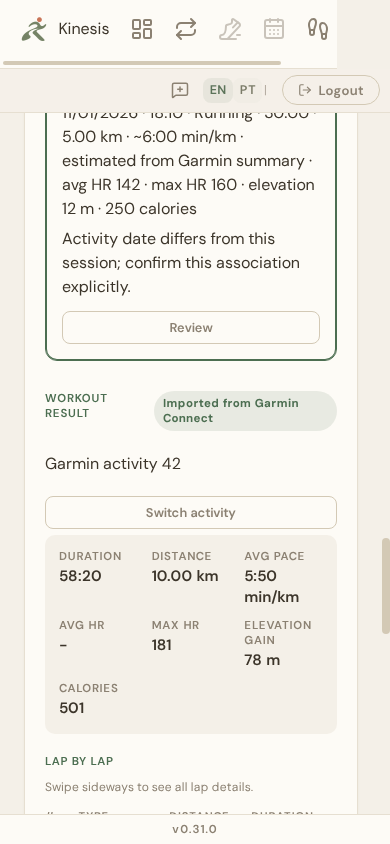
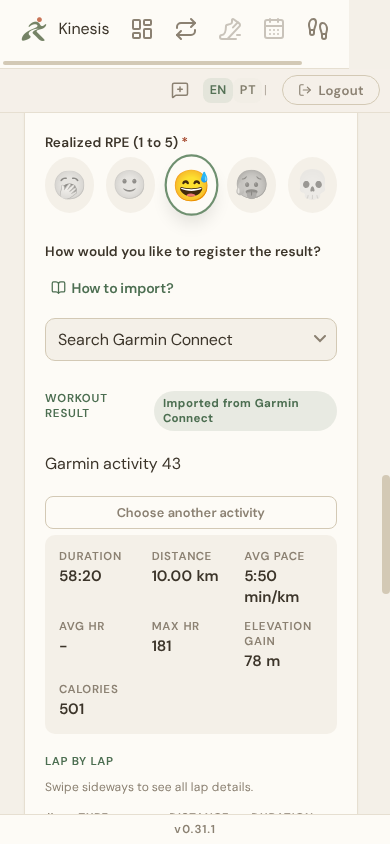
fix(garmin): show one activity replacement action

diff --git a/test/garminActivityImport.browser.test.js b/test/garminActivityImport.browser.test.js
@@ -225,10 +225,21 @@ test('Garmin activity result flow in Chrome stays explicit, localized, keyboard 
     await waitFor("document.querySelector('.confirm-card') !== null", 'replacement confirmation after recoverable failure');
     await evaluate("document.getElementById('confirmOkBtn').click(); true");
     await waitFor("document.getElementById('garminActivityLink').textContent.includes('42')", 'confirmed result link');
-    assert.equal(await evaluate("!document.getElementById('garminActivitySwitch').hidden && document.getElementById('garminActivitySwitch').textContent==='Trocar atividade'"), true,
-      'an imported activity has a direct replacement action');
+    assert.deepEqual(await evaluate("(()=>({switchVisible:!document.getElementById('garminActivitySwitch').hidden,label:document.getElementById('garminActivitySwitch').textContent,fieldHidden:document.getElementById('garminActivityField').hidden,guidanceHidden:document.getElementById('garminActivityGuidance').hidden,initialHidden:document.getElementById('garminActivitySearch').hidden}))()"),
+      { switchVisible: true, label: 'Escolher outra atividade', fieldHidden: true, guidanceHidden: true, initialHidden: true },
+      'the canonical imported result shows one replacement entry point without reserving the search panel');
+    assert.equal(await evaluate("getComputedStyle(document.getElementById('garminActivityField')).display"), 'none',
+      'the hidden initial search panel leaves no blank space after import');
+    await evaluate("document.getElementById('garminActivitySwitch').scrollIntoView({block:'center'});true"); await delay(120); await screenshot('pt-imported-desktop.png');
     await evaluate("document.getElementById('garminActivitySwitch').click(); true");
     await waitFor("document.getElementById('garminActivityCandidates').hidden===false", 'switch action opens the existing candidate list');
+    assert.equal(await evaluate("document.getElementById('garminActivitySwitch').textContent"), 'Voltar ao resultado atual');
+    await evaluate("document.getElementById('garminActivitySwitch').click(); true");
+    await waitFor("document.getElementById('garminActivityField').hidden", 'chooser can be cancelled without changing the imported result');
+    assert.equal(await evaluate("document.getElementById('garminActivityLink').textContent.includes('42')"), true);
+    assert.equal(await evaluate("document.getElementById('garminActivitySwitch').textContent"), 'Escolher outra atividade');
+    await evaluate("document.getElementById('garminActivitySwitch').click(); true");
+    await waitFor("document.getElementById('garminActivityCandidates').hidden===false", 'chooser reopens from the current result');
     await evaluate("document.querySelector('[data-activity-id=\"43\"]').click(); true");
     await waitFor("document.getElementById('garminActivityPreview').hidden===false", 'another activity can be reviewed for replacement');
     assert.equal(await evaluate("document.getElementById('garminActivityReplaceNotice').hidden"), false, 'review explains the replacement before confirmation');
@@ -237,6 +248,40 @@ test('Garmin activity result flow in Chrome stays explicit, localized, keyboard 
     await waitFor("document.getElementById('garminActivityPreview').hidden && document.activeElement.dataset.activityId==='43'", 'cancel returns focus to the alternative activity');
     assert.equal(await evaluate("document.getElementById('garminActivityLink').textContent.includes('42')"), true,
       'reviewing and returning leaves the persisted activity untouched');
+    await evaluate("document.getElementById('garminActivitySwitch').click(); true");
+    await waitFor("document.getElementById('garminActivityField').hidden", 'return action closes candidate list without discarding the saved result');
+    await evaluate("document.getElementById('garminActivitySwitch').click(); true");
+    await waitFor("document.getElementById('garminActivityCandidates').hidden===false", 'chooser opens again for explicit replacement');
+    await evaluate("document.querySelector('[data-activity-id=\"43\"]').click(); true");
+    await waitFor("document.getElementById('garminActivityPreview').hidden===false", 'replacement activity review');
+    await evaluate("document.getElementById('garminActivityConfirm').click(); true");
+    await waitFor("document.querySelector('.confirm-card') !== null", 'explicit replacement confirmation');
+    await evaluate("document.getElementById('confirmOkBtn').click(); true");
+    await waitFor("document.getElementById('garminActivityLink').textContent.includes('43') && document.getElementById('garminActivityField').hidden", 'confirmed replacement returns to imported-result state');
+    assert.deepEqual(await evaluate("(()=>({switchVisible:!document.getElementById('garminActivitySwitch').hidden,label:document.getElementById('garminActivitySwitch').textContent,searchHidden:document.getElementById('garminActivitySearch').hidden,guideHidden:document.getElementById('garminActivityGuidance').hidden}))()"),
+      { switchVisible: true, label: 'Escolher outra atividade', searchHidden: true, guideHidden: true });
+    await evaluate("document.getElementById('garminActivitySwitch').scrollIntoView({block:'center'});true"); await delay(120); await screenshot('pt-imported-replaced-desktop.png');
+    await command('Emulation.setDeviceMetricsOverride', { width: 390, height: 844, deviceScaleFactor: 1, mobile: true });
+    await evaluate("document.getElementById('garminActivitySwitch').scrollIntoView({block:'center'});true"); await delay(120); await screenshot('pt-imported-replaced-mobile.png');
+    await command('Emulation.setDeviceMetricsOverride', { width: 1280, height: 900, deviceScaleFactor: 1, mobile: false });
+    const savedBeforeConflict = db.prepare('SELECT fit_distance,result_data_source FROM trainings WHERE id=1').get();
+    await evaluate("document.getElementById('garminActivitySwitch').click(); true");
+    await waitFor("document.getElementById('garminActivityCandidates').hidden===false", 'replacement list before recoverable conflict');
+    await evaluate("document.querySelector('[data-activity-id=\"42\"]').click(); true");
+    await waitFor("document.getElementById('garminActivityPreview').hidden===false", 'replacement preview before connection conflict');
+    db.prepare('UPDATE garmin_pilot_connections SET connection_generation=connection_generation+1 WHERE user_id=1').run();
+    await evaluate("document.getElementById('garminActivityConfirm').click(); true");
+    await waitFor("document.querySelector('.confirm-card') !== null", 'explicit confirmation before recoverable conflict');
+    await evaluate("document.getElementById('confirmOkBtn').click(); true");
+    await waitFor("document.getElementById('garminActivityStatus').textContent.includes('conexão Garmin mudou')", 'localized replacement conflict');
+    assert.deepEqual(db.prepare('SELECT fit_distance,result_data_source FROM trainings WHERE id=1').get(), savedBeforeConflict,
+      'a stale connection conflict preserves the confirmed result');
+    assert.deepEqual(db.prepare('SELECT activity_id,is_current FROM garmin_activity_imports ORDER BY activity_id').all(), [
+      { activity_id: '42', is_current: 0 }, { activity_id: '43', is_current: 1 },
+    ], 'failed replacement leaves the current link and history intact');
+    assert.equal(await evaluate("document.getElementById('garminActivityLink').textContent.includes('43')"), true);
+    await evaluate("document.getElementById('garminActivitySwitch').click(); true");
+    await waitFor("document.getElementById('garminActivityField').hidden", 'conflict flow returns to current result');
     assert.equal(await evaluate("document.getElementById('feedbackRpeError').hidden"), true);
     assert.equal(await evaluate("document.getElementById('feedbackNotas').value"), 'draft survives Garmin sign-in and import');
     assert.equal(await evaluate("document.querySelector('[name=\"rpe\"][value=\"3\"]').checked"), true);
@@ -251,7 +296,7 @@ test('Garmin activity result flow in Chrome stays explicit, localized, keyboard 
     assert.equal(await evaluate("JSON.stringify({rpe:document.getElementById('plannedRpe').textContent,hr:document.getElementById('plannedFcAlvo').textContent,details:document.getElementById('plannedDetalhes').textContent})"),
       plannedBeforeLanguage, 'planned prescription survives canonical result merge and language change');
     assert.equal(await evaluate("document.getElementById('feedbackNotas').value"), 'draft survives Garmin sign-in and import');
-    assert.equal(await evaluate("document.getElementById('garminActivityLink').textContent.includes('42')"), true);
+    assert.equal(await evaluate("document.getElementById('garminActivityLink').textContent.includes('43')"), true);
     assert.equal(await evaluate("document.getElementById('fitAvgHr').textContent.trim()"), '-');
     await evaluate("document.querySelector('.lang-switch [data-lang=\"pt-BR\"]').click(); true");
     await waitFor("document.documentElement.lang==='pt-BR'", 'Portuguese language switch without reload');
@@ -280,11 +325,14 @@ test('Garmin activity result flow in Chrome stays explicit, localized, keyboard 
     assert.ok(plannedAfterReload.rpe.includes('3'), `planned RPE survives reload: ${JSON.stringify(plannedAfterReload)}`);
     assert.equal(plannedAfterReload.hr, JSON.parse(plannedInEnglish).hr);
     assert.equal(plannedAfterReload.details, JSON.parse(plannedInEnglish).details);
-    assert.equal(await evaluate("document.getElementById('garminActivityLink').textContent.includes('42')"), true);
+    assert.equal(await evaluate("document.getElementById('garminActivityLink').textContent.includes('43')"), true);
+    assert.deepEqual(await evaluate("(()=>({fieldHidden:document.getElementById('garminActivityField').hidden,guideHidden:document.getElementById('garminActivityGuidance').hidden,searchHidden:document.getElementById('garminActivitySearch').hidden,label:document.getElementById('garminActivitySwitch').textContent,switchVisible:!document.getElementById('garminActivitySwitch').hidden}))()"),
+      { fieldHidden: true, guideHidden: true, searchHidden: true, label: 'Choose another activity', switchVisible: true },
+      'reload derives the single replacement action from the canonical current activity link');
     assert.equal(await evaluate("document.getElementById('fitAvgHr').textContent.trim()"), '-');
     await evaluate("document.getElementById('feedbackAccordionTrigger').click(); true");
     holdFirstActivityPage = true;
-    await evaluate("document.getElementById('garminActivitySearch').click(); true");
+    await evaluate("document.getElementById('garminActivitySwitch').click(); true");
     await waitFor("document.getElementById('garminActivityStatus').textContent==='Searching activities…'", 'English search loading');
     for (let attempt = 0; attempt < 80 && !releaseFirstActivityPage; attempt += 1) await delay(25);
     assert.equal(typeof releaseFirstActivityPage, 'function');
@@ -292,7 +340,7 @@ test('Garmin activity result flow in Chrome stays explicit, localized, keyboard 
     assert.equal(await evaluate("document.getElementById('manualResultsField').hidden"), false, 'switching origin returns to the manual fallback');
     releaseFirstActivityPage(); await delay(100);
     assert.equal(await evaluate("document.getElementById('garminActivityCandidates').children.length"), 0, 'late Garmin results do not repaint after the origin changes');
-    await evaluate("document.getElementById('resultSourceSelect').value='garmin';document.getElementById('resultSourceSelect').dispatchEvent(new Event('change',{bubbles:true}));document.getElementById('garminActivitySearch').click();true");
+    await evaluate("document.getElementById('resultSourceSelect').value='garmin';document.getElementById('resultSourceSelect').dispatchEvent(new Event('change',{bubbles:true}));document.getElementById('garminActivitySwitch').click();true");
     await waitFor("document.getElementById('garminActivityCandidates').children.length===1", 'miles candidate after reload');
     assert.equal(await evaluate("document.getElementById('garminActivityCandidates').textContent.includes('6.21 mi')"), true, 'candidate distance follows the persisted miles preference');
     assert.equal(await evaluate("document.getElementById('garminActivityCandidates').textContent.includes('Running')"), true, 'reloaded English UI localizes the sport');

diff --git a/src/public/training-result.js b/src/public/training-result.js
@@ -944,13 +944,22 @@ async function initTrainingResult() {
   };
   rpeSelector.addEventListener('change', clearFeedbackRpeError);
 
+  let garminActivitySelectionOpen = false;
+  const hasCurrentGarminActivity = () => training?.result_data_source === 'garmin_connect'
+    && training?.garmin_activity?.activity_id != null;
   const syncResultSourceVisibility = () => {
     const manual = resultSourceSelect.value === 'manual';
     const garmin = resultSourceSelect.value === 'garmin';
+    const currentGarminActivity = hasCurrentGarminActivity();
     fitField.hidden = manual;
     fitField.hidden = manual || garmin;
     manualResultsField.hidden = !manual;
-    garminActivityField.hidden = !garmin;
+    garminActivityField.hidden = !garmin || (currentGarminActivity && !garminActivitySelectionOpen);
+    garminActivityGuidance.hidden = currentGarminActivity;
+    garminActivitySearch.hidden = currentGarminActivity || garminActivityHasSearched;
+    garminActivitySwitch.hidden = !currentGarminActivity;
+    garminActivitySwitch.textContent = t(garminActivitySelectionOpen
+      ? 'session.garminImport.backToCurrentResult' : 'session.garminImport.switchActivity');
   };
   const renderManualDistanceUnit = ({ convertExisting = false } = {}) => {
     const nextUnit = getUserPreferences().distance_unit === 'mi' ? 'mi' : 'km';
@@ -965,8 +974,9 @@ async function initTrainingResult() {
     manualDistanceInputUnit = nextUnit;
     manualDistanceUnit.textContent = nextUnit;
   };
-  resultSourceSelect.addEventListener('change', syncResultSourceVisibility);
   resultSourceSelect.addEventListener('change', () => {
+    if (resultSourceSelect.value !== 'garmin') garminActivitySelectionOpen = false;
+    syncResultSourceVisibility();
     if (resultSourceSelect.value === 'garmin') updateGarminActivityWindow();
     else if (garminActivityBusy && !garminActivityConfirm.hasAttribute('aria-busy')) {
       // A late search/download response must not repopulate a hidden source panel.
@@ -1138,6 +1148,7 @@ async function initTrainingResult() {
     } catch (error) {
       if (readId !== garminActivityReadId || currentTrainingId !== requestedTrainingId) return;
       setGarminActivityStatus(activityErrorKey(error));
+      if (hasCurrentGarminActivity() || garminActivityHasSearched) garminActivityRefresh.hidden = false;
       if (['connection_required', 'auth_required'].includes(error?.message)) {
         setAccordionOpen(garminAccordionTrigger, garminAccordionPanel, true);
         requestAnimationFrame(() => {
@@ -1224,8 +1235,8 @@ async function initTrainingResult() {
   garminActivityBack.addEventListener('click', () => {
     if (garminActivityBusy) return;
     garminActivityPreview.hidden = true;
-    garminActivityGuidance.hidden = false;
-    garminActivitySearch.hidden = garminActivityHasSearched;
+    garminActivityGuidance.hidden = hasCurrentGarminActivity();
+    garminActivitySearch.hidden = hasCurrentGarminActivity() || garminActivityHasSearched;
     garminActivityRefresh.hidden = !garminActivityHasSearched;
     garminActivityMore.hidden = !garminActivityCandidatesState.length || !garminActivityHasMore;
     garminActivityCandidates.hidden = garminActivityCandidatesState.length === 0;
@@ -1236,19 +1247,35 @@ async function initTrainingResult() {
   });
   garminActivitySwitch.addEventListener('click', () => {
     if (garminActivityBusy) return;
+    if (hasCurrentGarminActivity() && garminActivitySelectionOpen) {
+      garminActivitySelectionOpen = false;
+      garminActivityPreview.hidden = true;
+      garminActivityPreviewId = null;
+      garminActivityCandidates.hidden = true;
+      garminActivityMore.hidden = true;
+      setGarminActivityStatus('');
+      syncResultSourceVisibility();
+      garminActivitySwitch.focus({ preventScroll: true });
+      return;
+    }
+    garminActivitySelectionOpen = true;
+    setGarminActivityStatus('');
     if (resultSourceSelect.value !== 'garmin') {
       resultSourceSelect.value = 'garmin';
-      syncResultSourceVisibility();
     }
+    syncResultSourceVisibility();
     garminActivityPreview.hidden = true;
-    garminActivityGuidance.hidden = false;
     garminActivityField.scrollIntoView({ block: 'center', behavior: 'smooth' });
     if (garminActivityHasSearched && garminActivityCandidatesState.length) {
       garminActivityCandidates.hidden = false;
+      garminActivitySearch.hidden = true;
+      garminActivityRefresh.hidden = false;
+      garminActivityMore.hidden = !garminActivityHasMore;
       requestAnimationFrame(() => garminActivityCandidates.querySelector(`[data-activity-id="${CSS.escape(String(training?.garmin_activity?.activity_id || ''))}"]`)?.focus()
         || garminActivityRefresh.focus());
     } else {
-      requestAnimationFrame(() => { garminActivitySearch.focus(); void searchGarminActivities(); });
+      void searchGarminActivities();
+      requestAnimationFrame(() => garminActivityStatus.focus({ preventScroll: true }));
     }
   });
   document.addEventListener('app:languagechange', () => {
@@ -1257,6 +1284,8 @@ async function initTrainingResult() {
     if (resultSourceSelect.value === 'garmin') updateGarminActivityWindow();
     if (!garminActivityBusy) {
       garminActivitySearch.textContent = t('session.garminImport.searchInitial');
+      garminActivitySwitch.textContent = t(garminActivitySelectionOpen
+        ? 'session.garminImport.backToCurrentResult' : 'session.garminImport.switchActivity');
       garminActivityRefresh.textContent = t('session.garminImport.refresh');
       garminActivityMore.textContent = t('session.garminImport.more');
       garminActivityBack.textContent = t('session.garminImport.back');
@@ -1298,18 +1327,20 @@ async function initTrainingResult() {
         if (key.startsWith('feedback_')) training[key] = previousTraining[key];
       }
       fitData = { ...result.training, laps: JSON.parse(result.training.fit_summary_json || '{}').laps || [] };
+      garminActivitySelectionOpen = false;
       resultSourceSelect.value = 'garmin';
       garminActivityPreviewId = null;
       garminActivityPreview.hidden = true;
       renderFitData();
       setGarminActivityStatus(result.duplicate ? 'imported' : 'imported');
       refreshFeedbackAccordionSummary();
+      requestAnimationFrame(() => garminActivitySwitch.focus({ preventScroll: true }));
     } catch (error) {
       setGarminActivityStatus(activityErrorKey(error));
       focusGarminActivityError();
       if (['session_changed','connection_changed'].includes(error?.message)) {
         const current = await fetchTraining(requestedTrainingId).catch(() => null);
-        if (current) training = current;
+        if (current) applyCanonicalTraining(current, { preserveFeedbackBaseline: true });
       }
     } finally {
       garminActivityBusy = false;
@@ -1419,6 +1450,7 @@ async function initTrainingResult() {
       resultSourceBadge.textContent = '';
       fitLapsSection.hidden = true;
       fitLapsBody.innerHTML = '';
+      syncResultSourceVisibility();
       return;
     }
     fitDataSection.hidden = false;
@@ -1440,9 +1472,11 @@ async function initTrainingResult() {
     const activityId = training?.garmin_activity?.activity_id;
     activityLink.hidden = source !== 'garmin_connect' || !activityId;
     activityLink.textContent = activityLink.hidden ? '' : t('session.garminActivityLink').replace('{id}', String(activityId));
-    garminActivitySwitch.hidden = activityLink.hidden;
-    garminActivitySwitch.textContent = t('session.garminImport.switchActivity');
+    garminActivitySwitch.hidden = !hasCurrentGarminActivity();
+    garminActivitySwitch.textContent = t(garminActivitySelectionOpen
+      ? 'session.garminImport.backToCurrentResult' : 'session.garminImport.switchActivity');
     renderLapsTable();
+    syncResultSourceVisibility();
   };
 
   let feedbackShoes = [];
@@ -3270,14 +3304,20 @@ async function initTrainingResult() {
     }),
     applyResponse: applyManualResults,
   });
-  const applyCanonicalTraining = (canonical) => {
-    const laps = ['fit_upload', 'garmin_connect'].includes(canonical.result_data_source) ? (fitData?.laps || []) : [];
+  const applyCanonicalTraining = (canonical, { preserveFeedbackBaseline = false } = {}) => {
+    let laps = [];
+    if (['fit_upload', 'garmin_connect'].includes(canonical.result_data_source) && canonical.fit_summary_json) {
+      try {
+        const summary = JSON.parse(canonical.fit_summary_json);
+        if (Array.isArray(summary.laps)) laps = summary.laps;
+      } catch { /* malformed historical summaries stay readable without laps */ }
+    }
     training = canonical;
     fitData = { ...canonical, laps };
     resultSourceSelect.value = canonical.result_data_source === 'manual' ? 'manual'
       : canonical.result_data_source === 'garmin_connect' ? 'garmin' : 'fit';
     renderFitData();
-    feedbackBaselineSignature = feedbackPersistenceSnapshot || feedbackSignature();
+    if (!preserveFeedbackBaseline) feedbackBaselineSignature = feedbackPersistenceSnapshot || feedbackSignature();
     refreshFeedbackAccordionSummary();
   };
   const feedbackPayload = (state) => {

diff --git a/test/trainingResult.test.js b/test/trainingResult.test.js
@@ -1185,7 +1185,7 @@ test('training-result.js wires explicit persisted analysis, protected prompt pre
   assert.match(js, /saveManualTrainingResults/);
   assert.match(js, /convertDistanceToKm/);
 
-  assert.match(js, /resultSourceSelect\.addEventListener\('change', syncResultSourceVisibility\)/);
+  assert.match(js, /resultSourceSelect\.addEventListener\('change', \(\) => \{[\s\S]*?syncResultSourceVisibility\(\);/);
   assert.match(js, /fitField\.hidden = manual;/);
   assert.match(js, /manualResultsField\.hidden = !manual;/);
 
